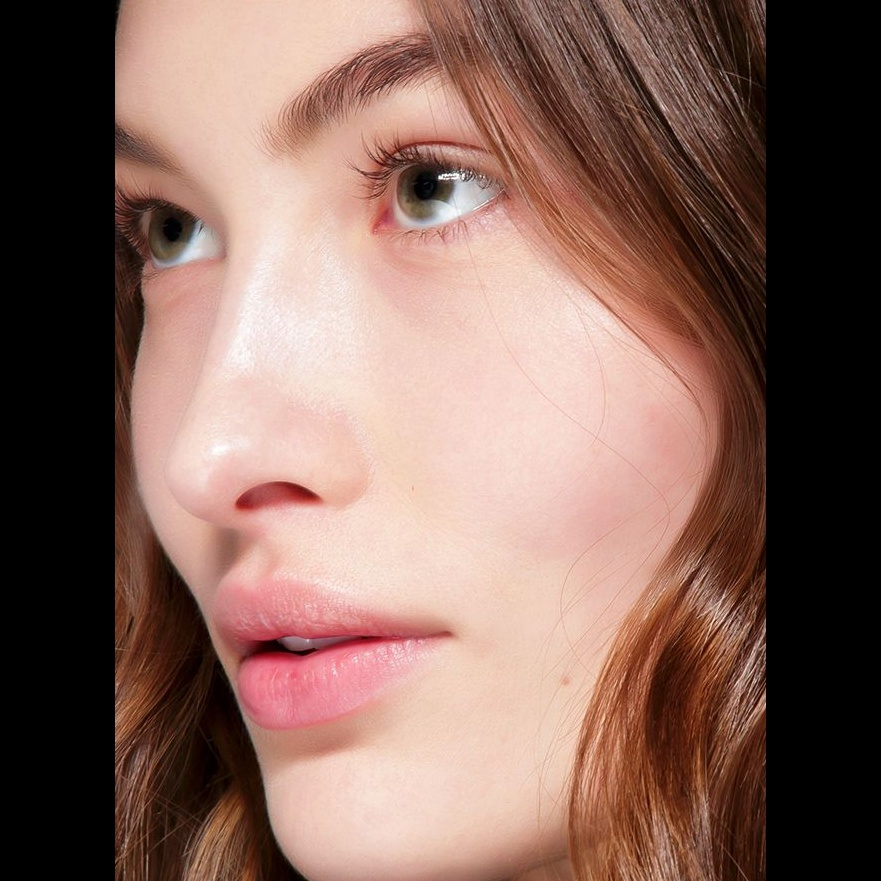
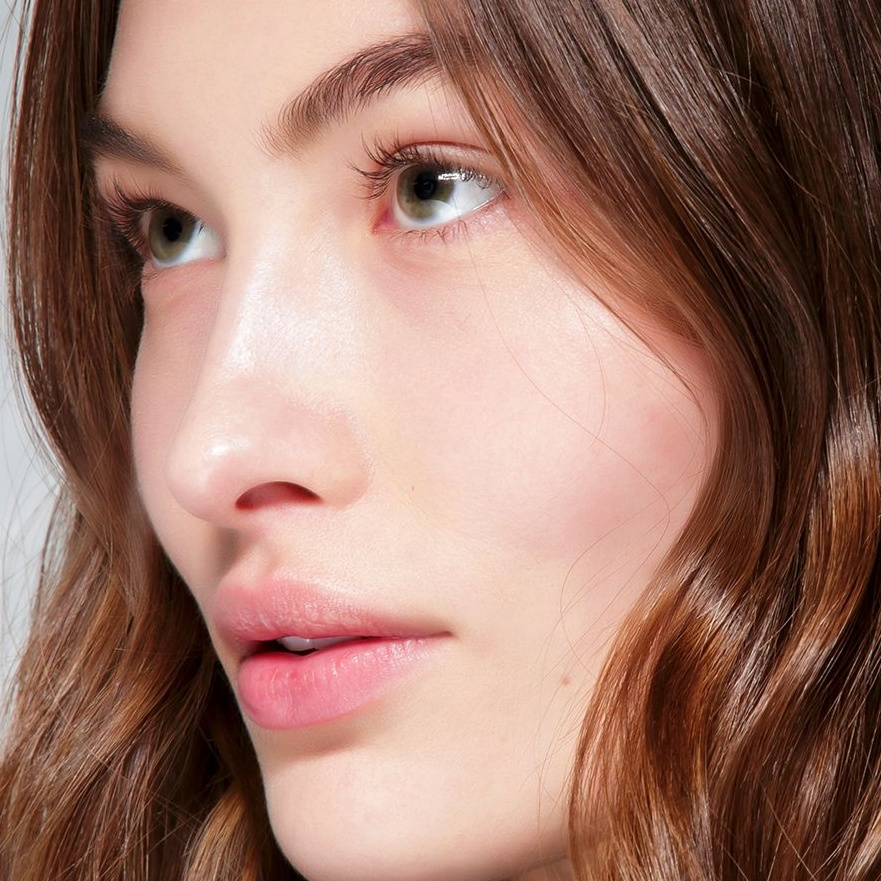
fix: Change crop dimensions to square aspect ratio

Changed region(s): [[0.8581, 0.0, 1.0, 1.0], [0.0, 0.0, 0.1532, 1.0]]

diff --git a/src/utils.py b/src/utils.py
@@ -7,28 +7,23 @@ PADDING_COLOR = [0,0,0]
 def crop_image(image, boxes):
 	'''
 	Returns:
-		0 if no face was detected
-		-1 if more than one face was detected
-		cropped face if exactly one face was detected
-	Adds padding to make the processed image square, this prevents distortion when feeding to next model
+		0 if boxes is empty
+		cropped image (forced square aspect ratio) if not
 	'''
 	if len(boxes)==0:
 		return 0
-	elif len(boxes)>1:
-		return -1
 	else:
-		x1=boxes[0]['pt1'][0]
-		x2=boxes[0]['pt2'][0]
-		y1=boxes[0]['pt1'][1]
-		y2=boxes[0]['pt2'][1]
-		crop_img = image[y1:y2, x1:x2]
-	
-	box_height=y2-y1
-	box_width=x2-x1
-	output_side_length = max(box_width, box_height)
-	
-	pad_x=(output_side_length-box_width)//2
-	pad_y=(output_side_length-box_height)//2
+		cropped_images=[]
+		for i,box in enumerate(boxes):
+			x1=box['pt1'][0]
+			x2=box['pt2'][0]
+			y1=box['pt1'][1]
+			y2=box['pt2'][1]
+			box_height=y2-y1
+			box_width=x2-x1
+			output_side_length = max(box_width, box_height)
+			pad_x=(output_side_length-box_width)//2
+			pad_y=(output_side_length-box_height)//2
+			cropped_images.append(image[y1-pad_y:y2+pad_y, x1-pad_x:x2+pad_x])
 
-	processed_img= cv2.copyMakeBorder(crop_img,pad_y,pad_y,pad_x,pad_x,cv2.BORDER_CONSTANT,value=PADDING_COLOR)
-	return processed_img
+	return cropped_images
